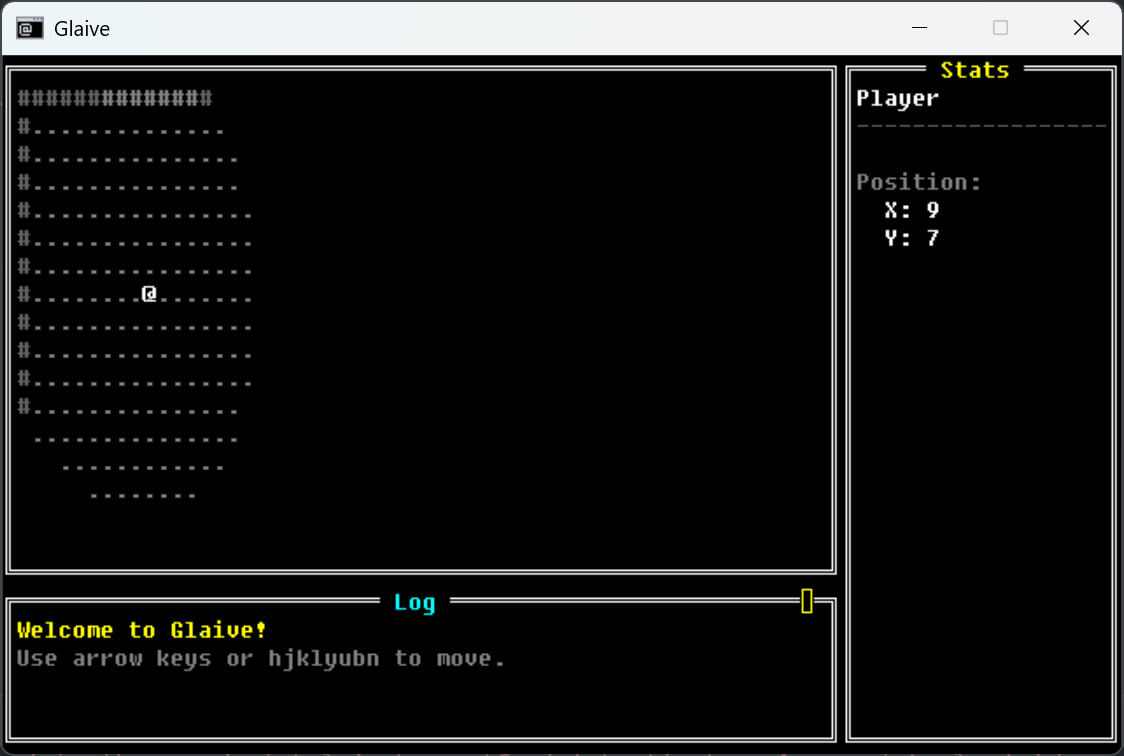
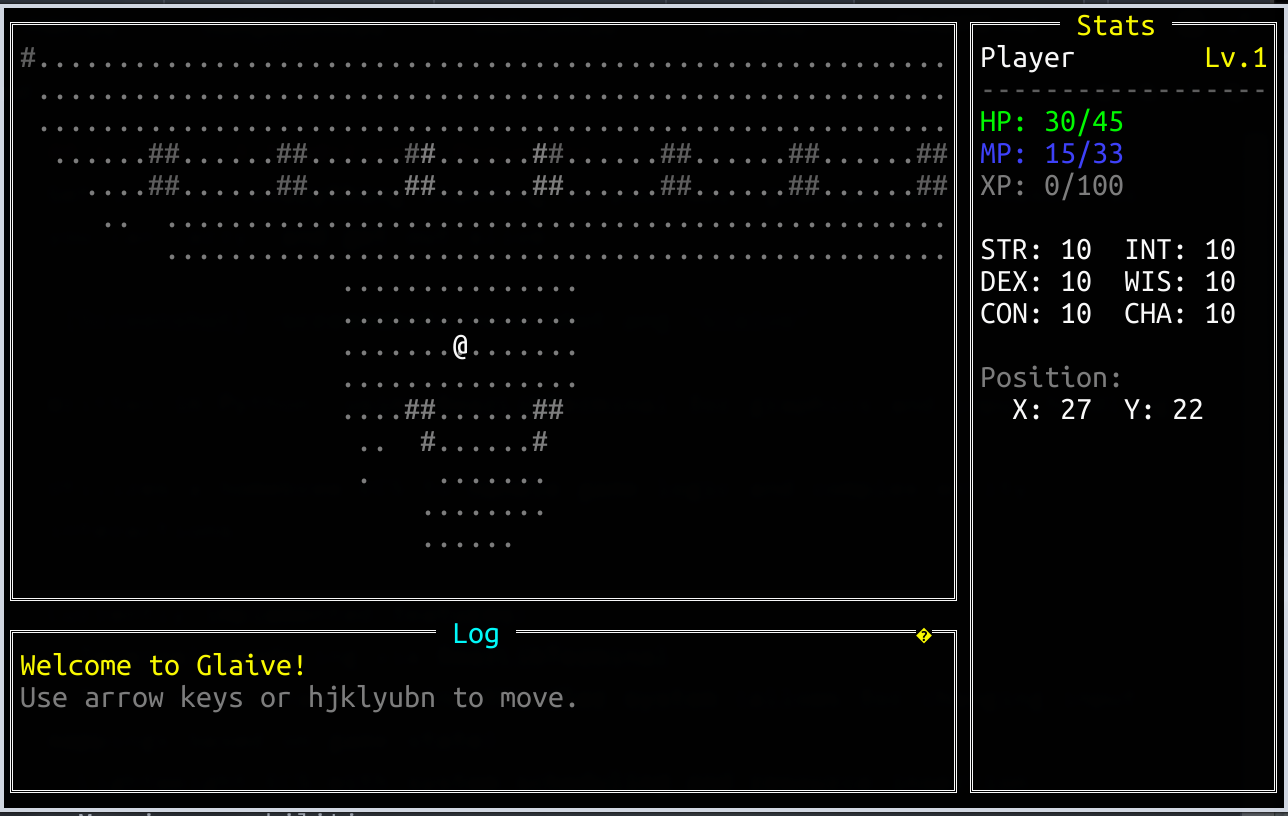
Added basic RPG stats via components. Also added new stats (along with health, mana, and experience) to the sidebar, so you can actually track your character (even though the stats don't currently do anything yet). Next up, items.

diff --git a/ui/panel.py b/ui/panel.py
@@ -60,7 +60,7 @@ class StatsPanel(Panel):
     border_color: str = "yellow"
 
     def render_content(self, terminal: "GlaiveTerminal", world: "World"):
-        from ecs.components import IsPlayer, Position
+        from ecs.components import Experience, Health, IsPlayer, Mana, Position, Stats
 
         inner: Rect = self.inner_rect
 
@@ -72,16 +72,85 @@ class StatsPanel(Panel):
 
         y: int = inner.y
 
+        # Header: Name and Level
+        exp = world.get_component(player, Experience)
+        level_str = f"Lv.{exp.level}" if exp else ""
         terminal.draw_string_at_layer(inner.x, y, "Player", "white", self.content_layer)
+        terminal.draw_string_at_layer(
+            inner.x + inner.width - len(level_str),
+            y,
+            level_str,
+            "yellow",
+            self.content_layer,
+        )
         y += 1
 
         separator: str = "-" * inner.width
         terminal.draw_string_at_layer(
             inner.x, y, separator, "dark gray", self.content_layer
         )
-        y += 2
+        y += 1
 
-        # Just print the players position for now (we have no stats yet)
+        # HP
+        stats: Stats = world.component_for(player, Stats)
+        health = world.component_for(player, Health)
+        if health and stats and exp:
+            max_hp = health.max_hp(stats, exp.level)
+            hp_pct = health.current_hp / max_hp
+            hp_color = "green" if hp_pct > 0.5 else "yellow" if hp_pct > 0.25 else "red"
+            hp_text = f"HP: {health.current_hp}/{max_hp}"
+            terminal.draw_string_at_layer(
+                inner.x, y, hp_text, hp_color, self.content_layer
+            )
+            y += 1
+
+        # MP
+        mana = world.component_for(player, Mana)
+        if mana and stats and exp:
+            max_mp = mana.max_mp(stats, exp.level)
+            mp_text = f"MP: {mana.current_mp}/{max_mp}"
+            terminal.draw_string_at_layer(
+                inner.x, y, mp_text, "light blue", self.content_layer
+            )
+            y += 1
+
+        # XP
+        if exp:
+            current, needed = exp.xp_progress()
+            xp_text = f"XP: {current}/{needed}"
+            terminal.draw_string_at_layer(
+                inner.x, y, xp_text, "gray", self.content_layer
+            )
+            y += 2
+
+        # Stats (display in two columns)
+        if stats:
+            col1_x = inner.x
+            col2_x = inner.x + inner.width // 2
+
+            terminal.draw_string_at_layer(
+                col1_x, y, f"STR: {stats.strength:2}", "white", self.content_layer
+            )
+            terminal.draw_string_at_layer(
+                col2_x, y, f"INT: {stats.intelligence:2}", "white", self.content_layer
+            )
+            y += 1
+            terminal.draw_string_at_layer(
+                col1_x, y, f"DEX: {stats.dexterity:2}", "white", self.content_layer
+            )
+            terminal.draw_string_at_layer(
+                col2_x, y, f"WIS: {stats.wisdom:2}", "white", self.content_layer
+            )
+            y += 1
+            terminal.draw_string_at_layer(
+                col1_x, y, f"CON: {stats.constitution:2}", "white", self.content_layer
+            )
+            terminal.draw_string_at_layer(
+                col2_x, y, f"CHA: {stats.charisma:2}", "white", self.content_layer
+            )
+            y += 2
+
+        # Position (For now, to fill out the sidebar a bit...)
         pos = world.get_component(player, Position)
         if pos:
             terminal.draw_string_at_layer(
@@ -89,13 +158,8 @@ class StatsPanel(Panel):
             )
             y += 1
             terminal.draw_string_at_layer(
-                inner.x + 2, y, f"X: {pos.x}", "white", self.content_layer
+                inner.x + 2, y, f"X: {pos.x}  Y: {pos.y}", "white", self.content_layer
             )
-            y += 1
-            terminal.draw_string_at_layer(
-                inner.x + 2, y, f"Y: {pos.y}", "white", self.content_layer
-            )
-            y += 2
 
 
 class LogPanel(Panel):

diff --git a/ecs/components.py b/ecs/components.py
@@ -34,3 +34,48 @@ class MoveIntent(Component):
     dx: int
     dy: int
     consumes_turn: bool
+
+
+@dataclass
+class Stats(Component):
+    strength: int = 10
+    dexterity: int = 10
+    constitution: int = 10
+    intelligence: int = 10
+    wisdom: int = 10
+    charisma: int = 10
+
+
+@dataclass
+class Health(Component):
+    current_hp: int
+    base_max_hp: int = 20  # Before constitution bonus applied
+
+    def max_hp(self, stats: Stats, level: int) -> int:
+        return self.base_max_hp + (stats.constitution * 2) + (level * 5)
+
+
+@dataclass
+class Mana(Component):
+    current_mp: int
+    base_max_mp: int = 10  # Before intelligence bonus applied
+
+    def max_mp(self, stats: Stats, level: int) -> int:
+        return self.base_max_mp + (stats.intelligence * 2) + (level * 3)
+
+
+@dataclass
+class Experience(Component):
+    current_xp: int = 0
+    level: int = 1
+
+    def xp_for_next_level(self) -> int:
+        # Triangualr level growth
+        return self.level * (self.level + 1) * 50
+
+    def xp_progress(self) -> tuple[int, int]:
+        prev_threshold: int = (
+            (self.level - 1) * self.level * 50 if self.level > 1 else 0
+        )
+        next_threshold: int = self.xp_for_next_level()
+        return (self.current_xp - prev_threshold, next_threshold - prev_threshold)

diff --git a/ecs/stats_util.py b/ecs/stats_util.py
@@ -1,0 +1,37 @@
+from typing import TYPE_CHECKING
+
+if TYPE_CHECKING:
+    from ecs.components import Experience, Stats
+
+
+def get_damage_bonus(stats: "Stats") -> int:
+    return (stats.strentgh - 10) // 2
+
+
+def get_accuracy_bonus(stats: "Stats") -> int:
+    return (stats.dexterity - 10) // 2
+
+
+def get_dodge_chance(stats: "Stats") -> int:
+    return max(0, (stats.dexterity - 10))
+
+
+def get_magic_power(stats: "Stats") -> int:
+    return (stats.intelligence - 10) // 2
+
+
+def get_magic_resist(stats: "Stats") -> int:
+    return max(0, (stats.wisdom - 10))
+
+
+def check_level_up(exp: "Experience") -> bool:
+    return exp.current_xp >= exp.xp_for_next_level()
+
+
+def apply_level_up(exp: "Experience", stats: "Stats") -> list[str]:
+    """
+    Apply a level up, not sure whats going to happen here yet
+    Stat increases, probably, maybe some skill points?
+    """
+    exp.level += 1
+    return [f"You have gained a level! You are now level {exp.level}"]

diff --git a/main.py b/main.py
@@ -1,6 +1,15 @@
 from camera.camera import Camera
 from camera.utils import compute_fov
-from ecs.components import Drawable, IsPlayer, Position, TurnConsumed
+from ecs.components import (
+    Drawable,
+    Experience,
+    Health,
+    IsPlayer,
+    Mana,
+    Position,
+    Stats,
+    TurnConsumed,
+)
 from ecs.resources import CameraResource, MapResource, TerminalResource, UIResource
 from ecs.systems import (
     MapRenderSystem,
@@ -47,6 +56,10 @@ player: int = world.create_entity()
 world.add_component(player, IsPlayer())
 world.add_component(player, Position(1, 1))
 world.add_component(player, Drawable(Glyph("@", "white"), "Player"))
+world.add_component(player, Stats())  # Default stats (all 10s)
+world.add_component(player, Health(current_hp=30))
+world.add_component(player, Mana(current_mp=15))
+world.add_component(player, Experience())
 
 # Update the camera with the players position, to initialize its location
 camera.update(1, 1)
